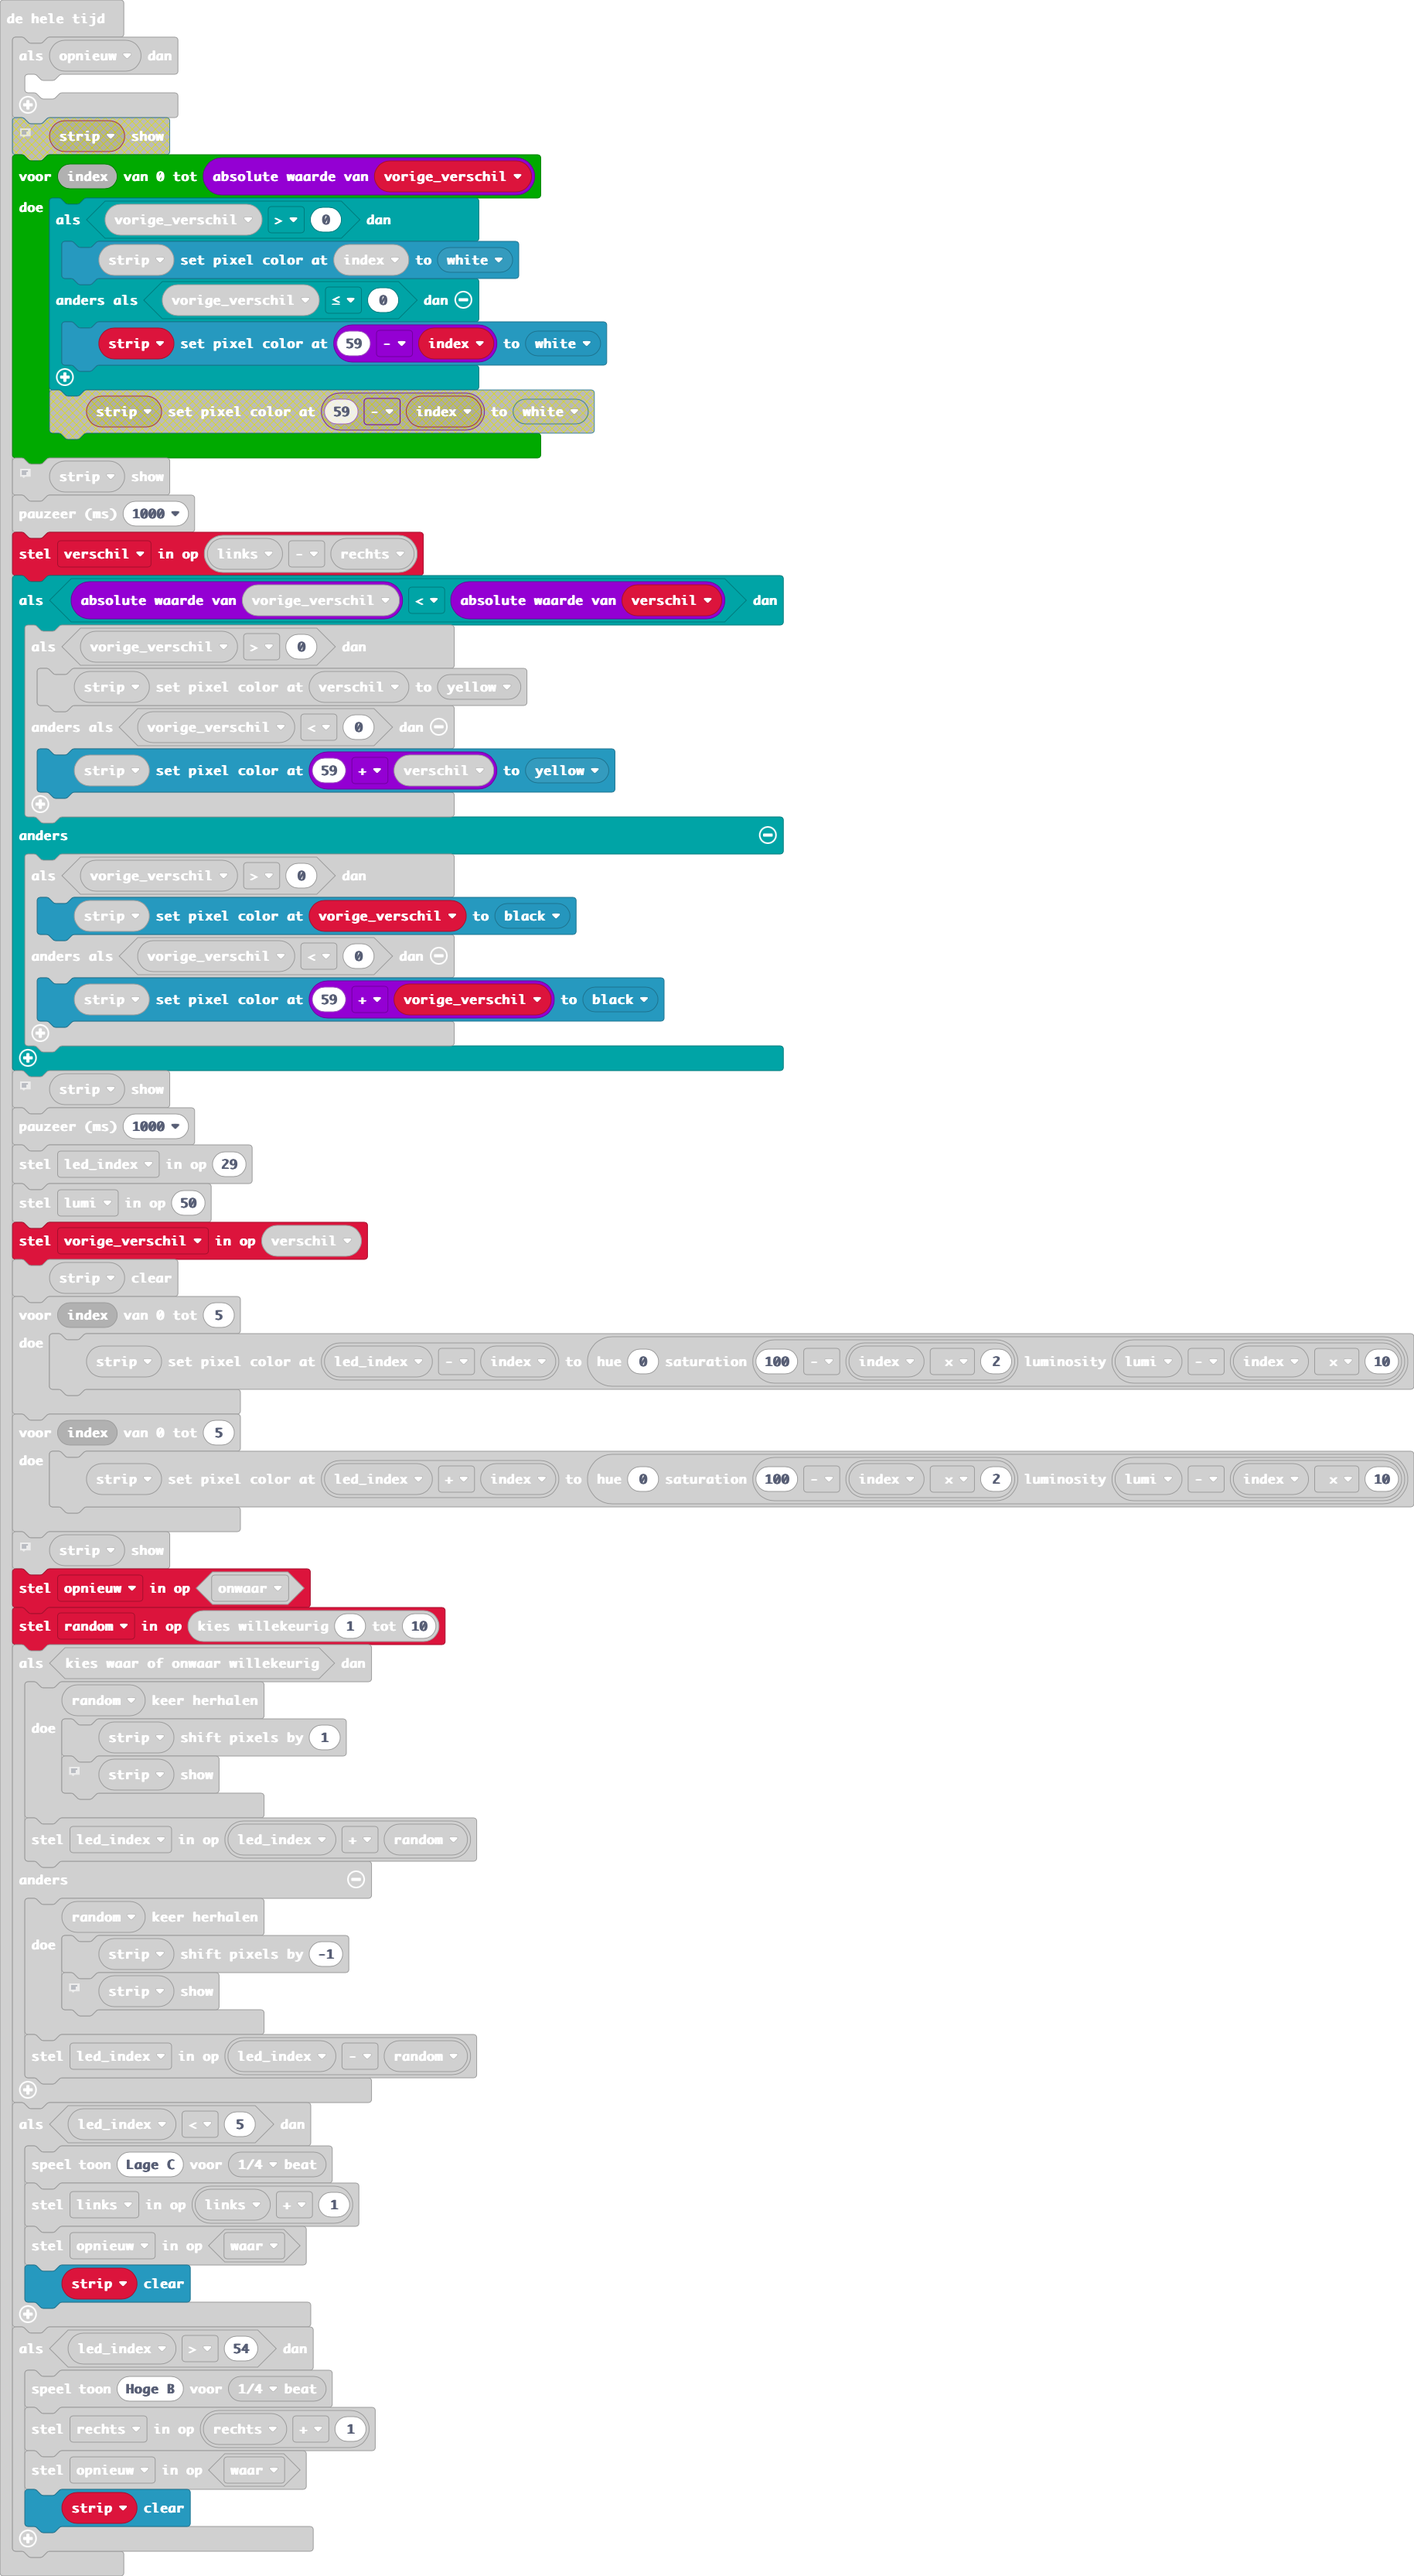
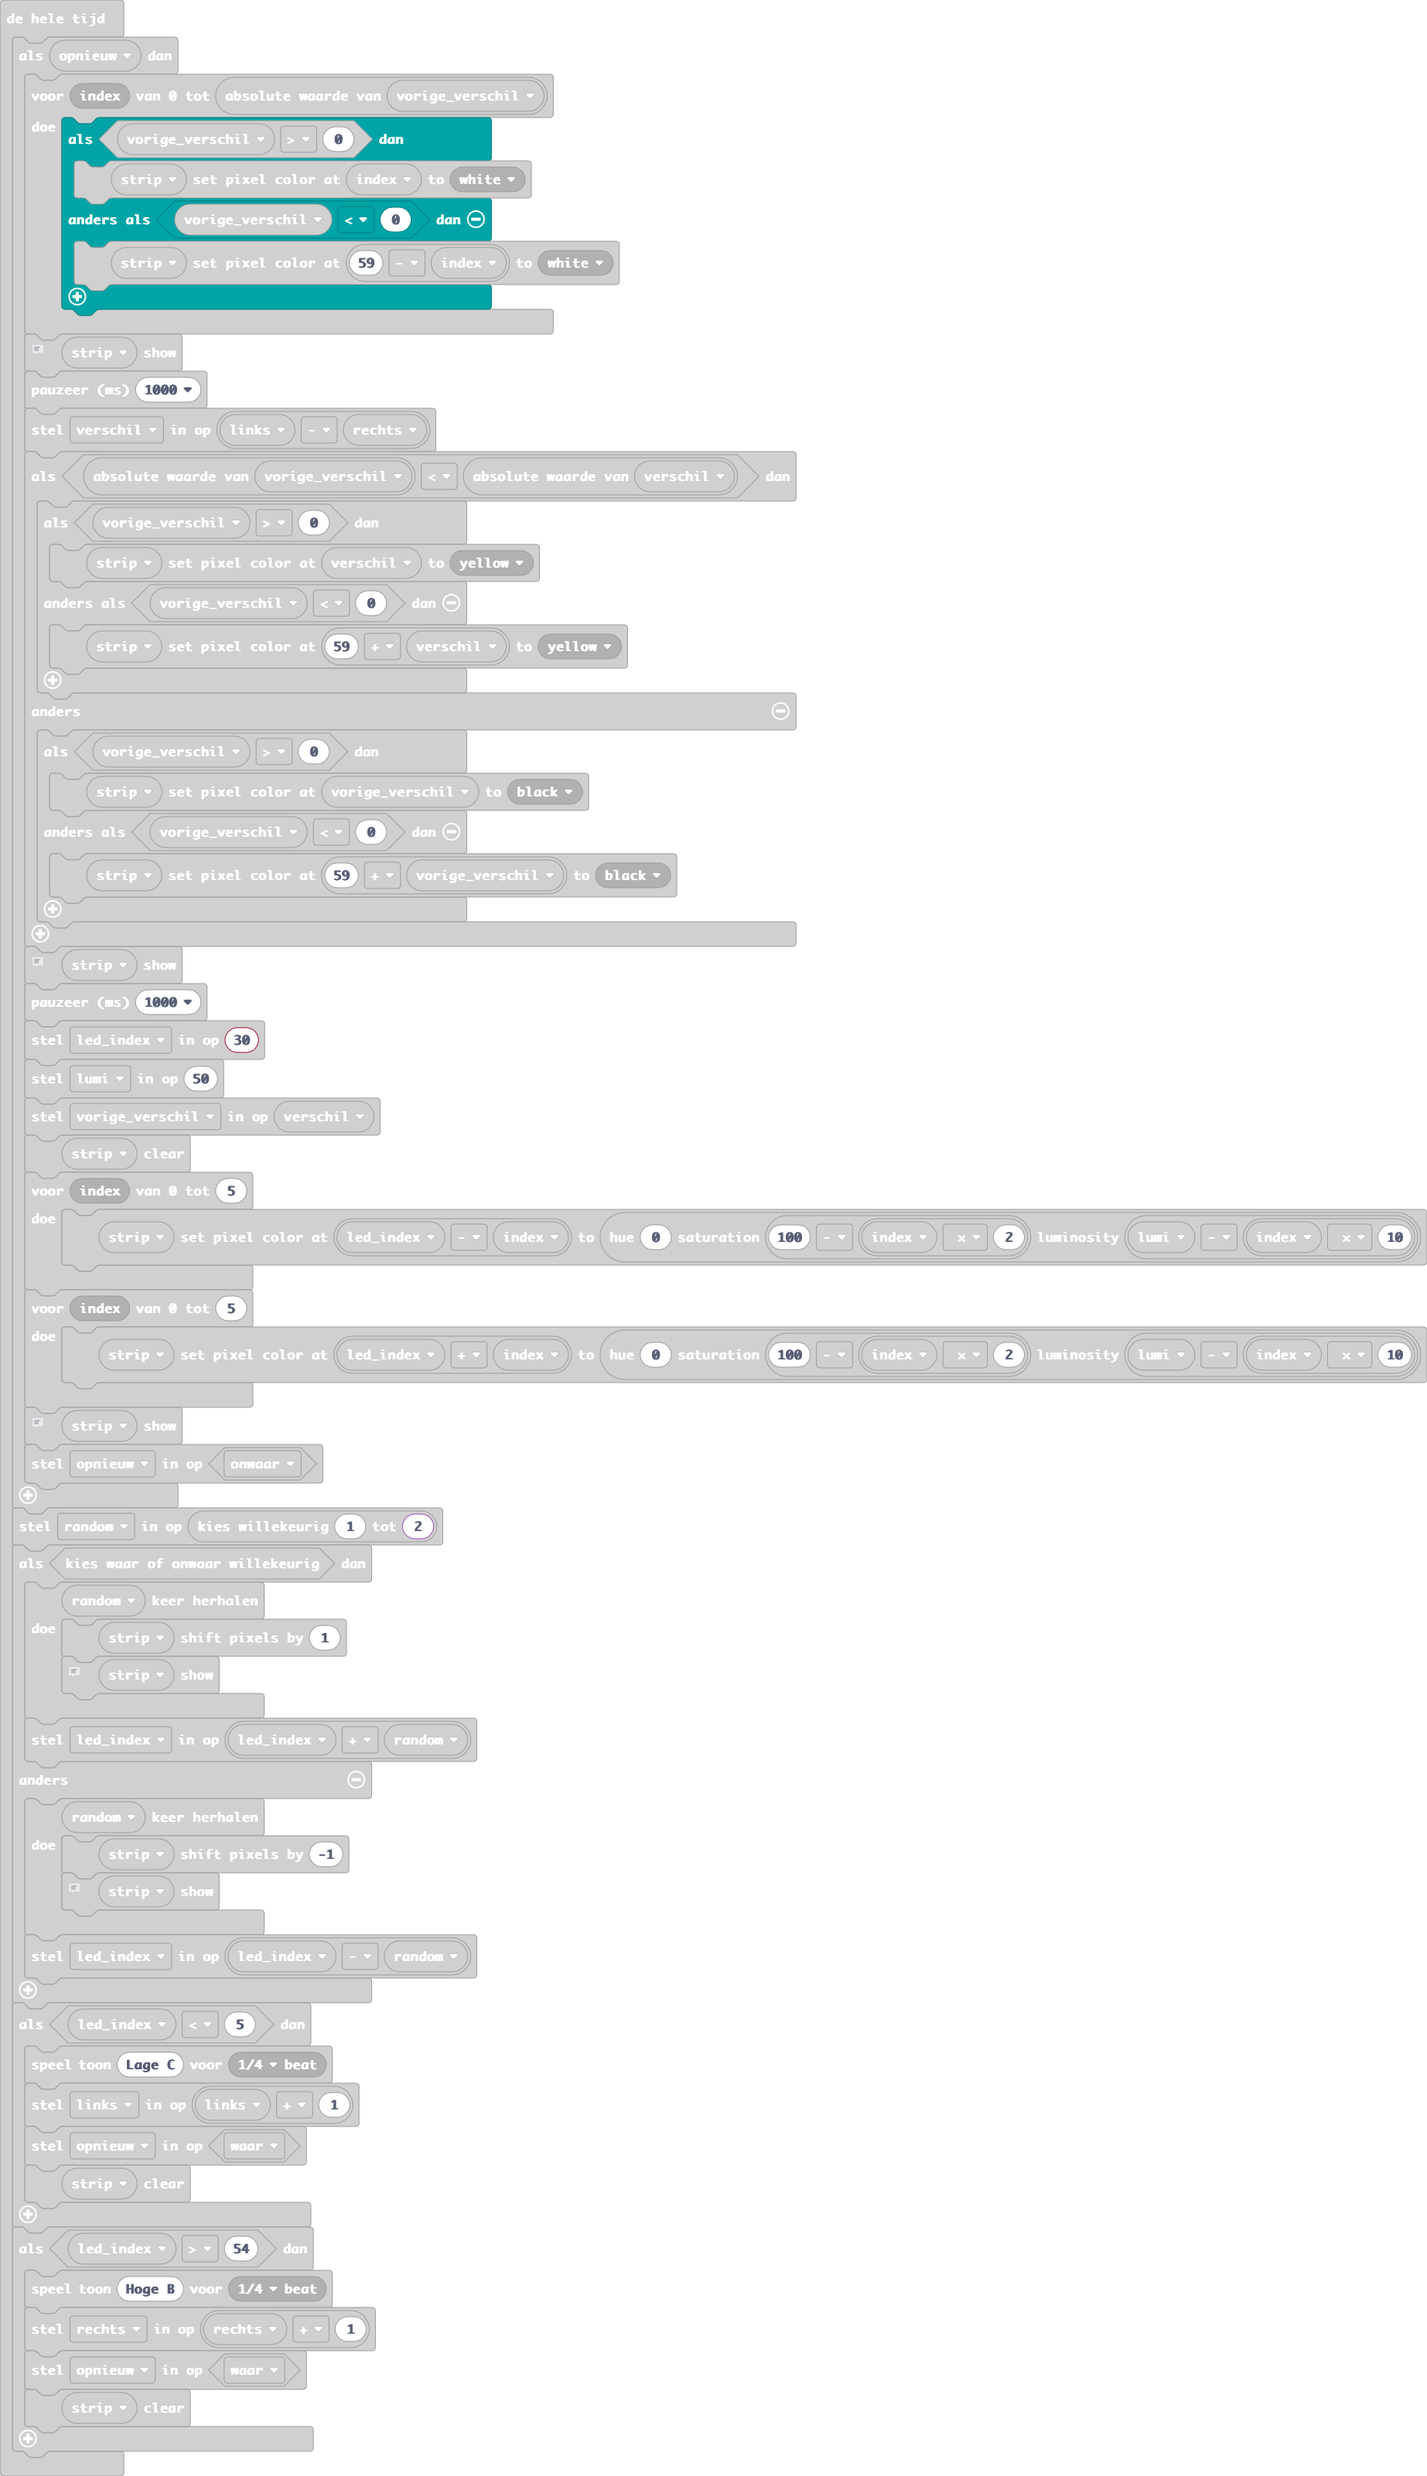
bug fixing

Changed region(s): [[0.0, 0.0, 1.0, 0.9994]]

diff --git a/main.ts b/main.ts
@@ -59,7 +59,7 @@ basic.forever(function () {
         for (let index = 0; index <= Math.abs(vorige_verschil); index++) {
             if (vorige_verschil > 0) {
                 strip.setPixelColor(index, neopixel.colors(NeoPixelColors.White))
-            } else if (vorige_verschil <= 0) {
+            } else if (vorige_verschil < 0) {
                 strip.setPixelColor(59 - index, neopixel.colors(NeoPixelColors.White))
             }
         }
@@ -83,7 +83,7 @@ basic.forever(function () {
         // Pas bij dit blok worden de hiervoor ingestelde aanpassingen getoond.
         strip.show()
         basic.pause(1000)
-        led_index = 29
+        led_index = 30
         lumi = 50
         vorige_verschil = verschil
         strip.clear()
@@ -97,7 +97,7 @@ basic.forever(function () {
         strip.show()
         opnieuw = false
     }
-    random = randint(1, 10)
+    random = randint(1, 2)
     if (Math.randomBoolean()) {
         for (let index = 0; index < random; index++) {
             strip.shift(1)
